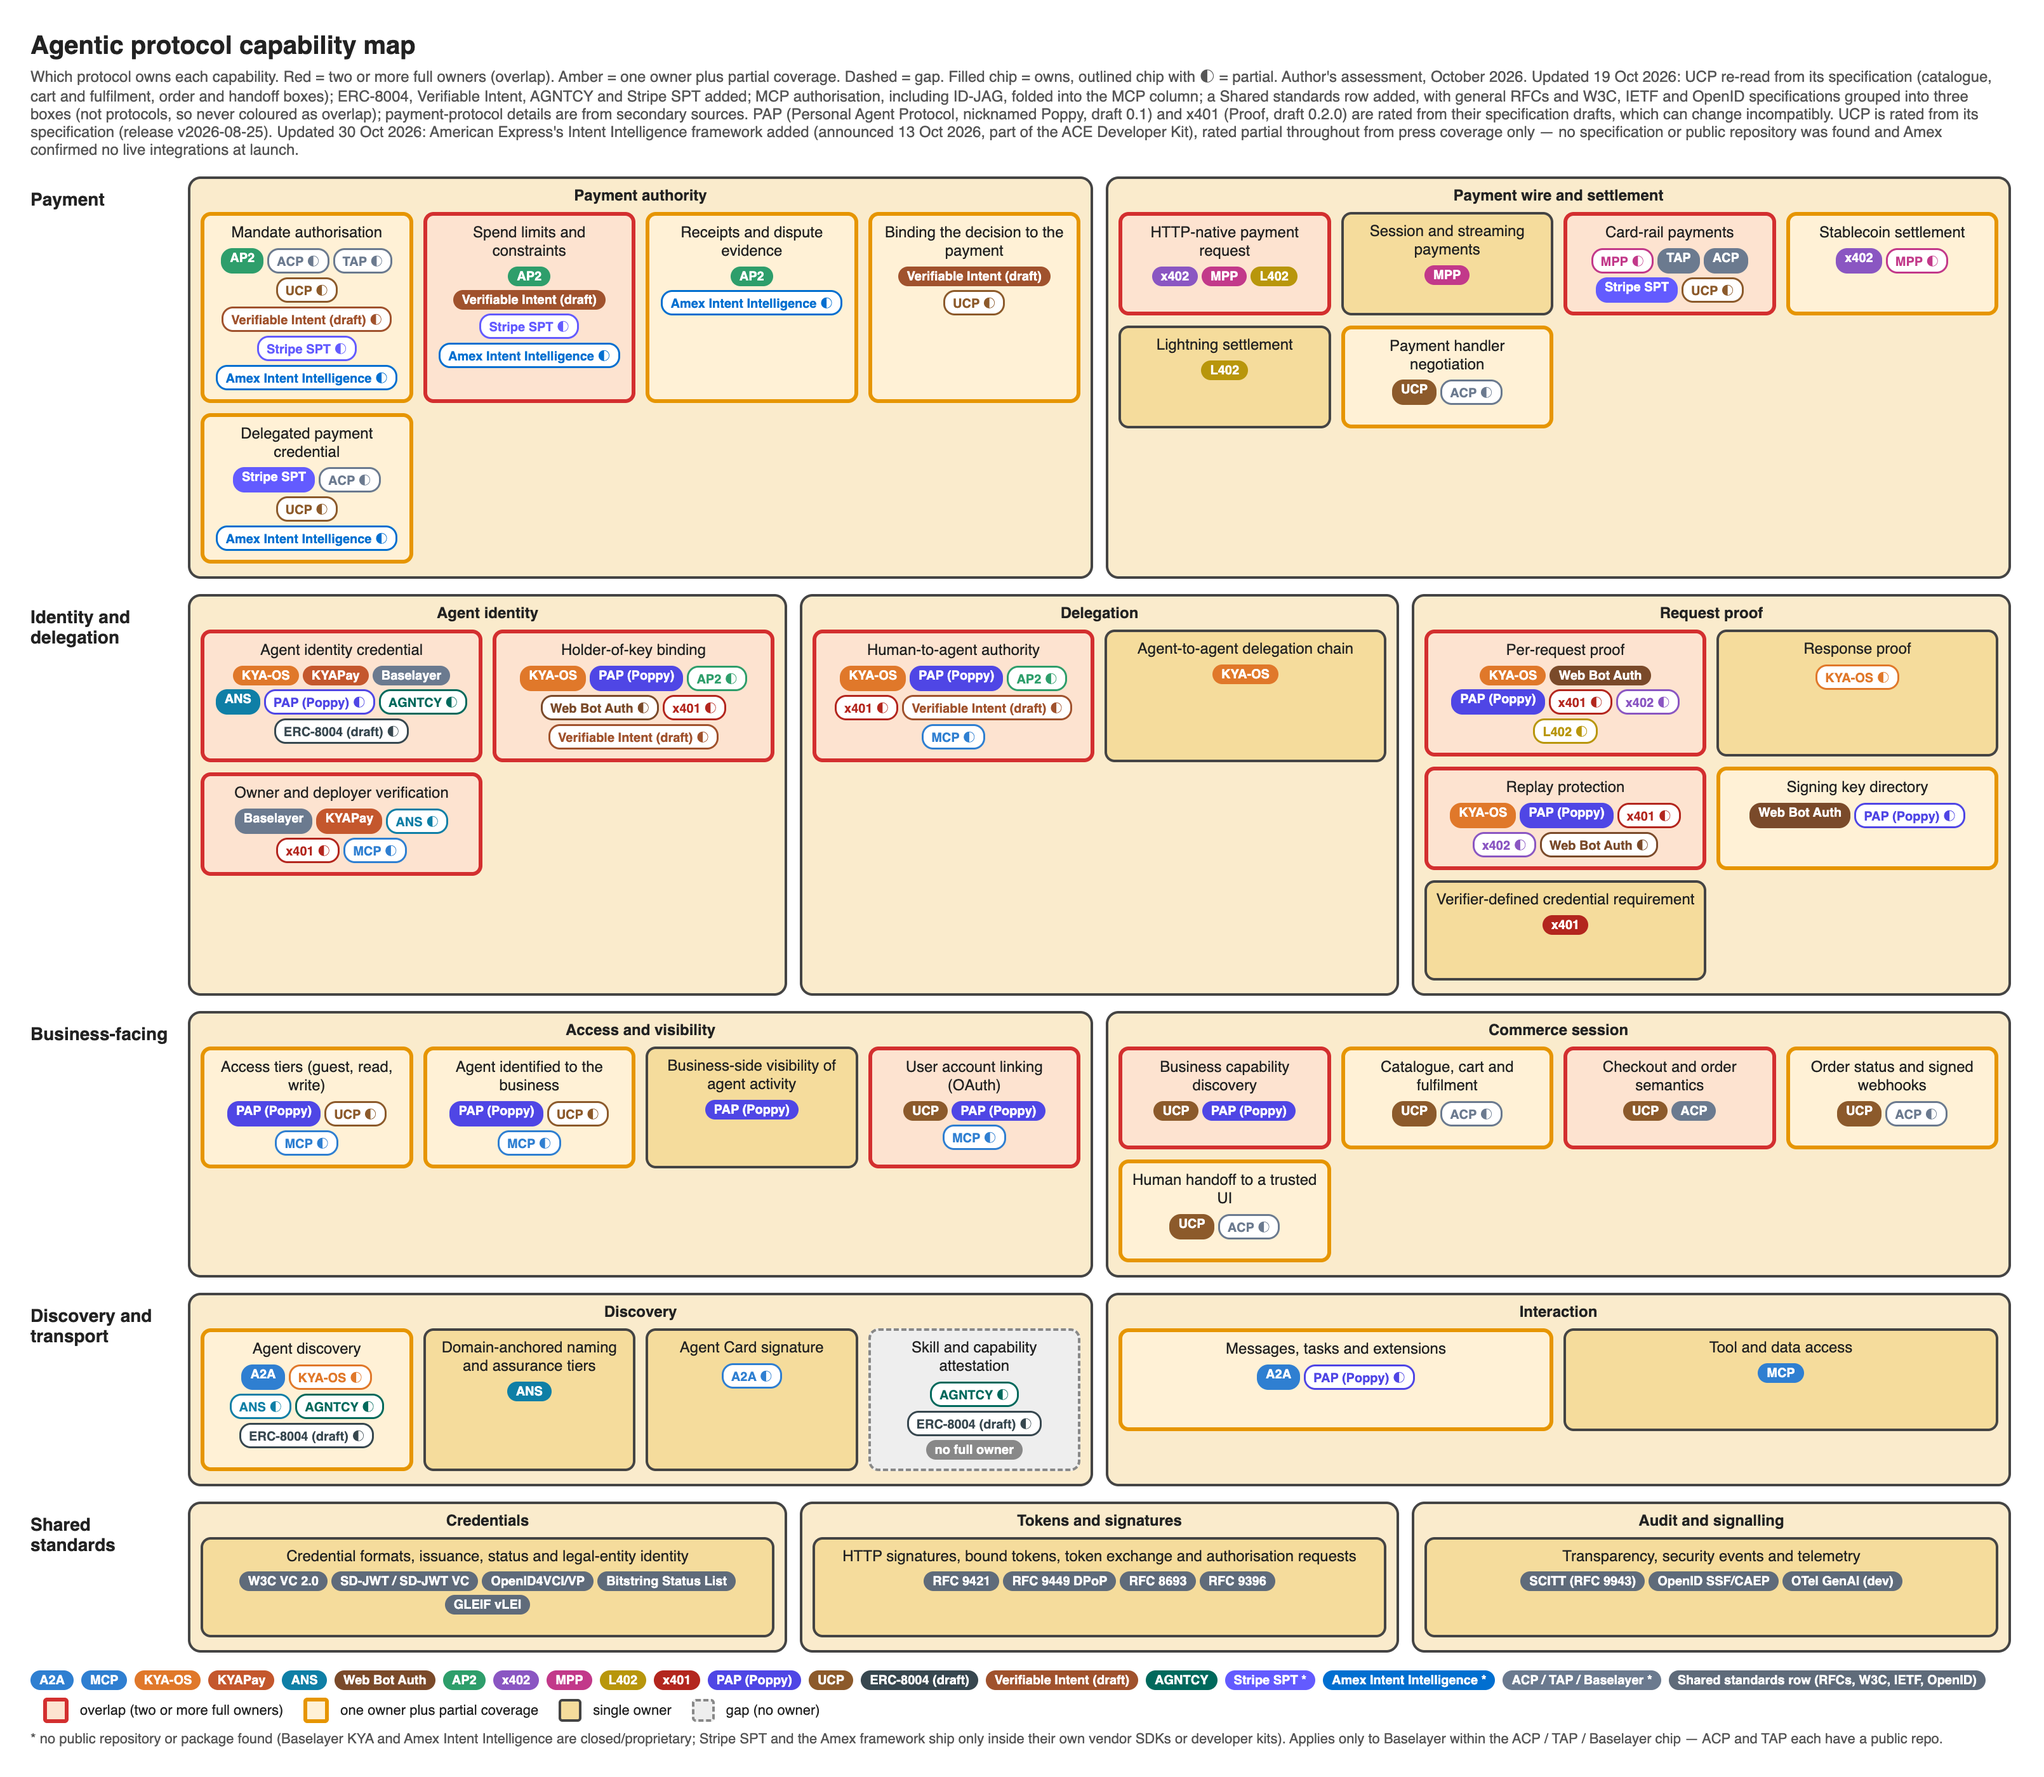
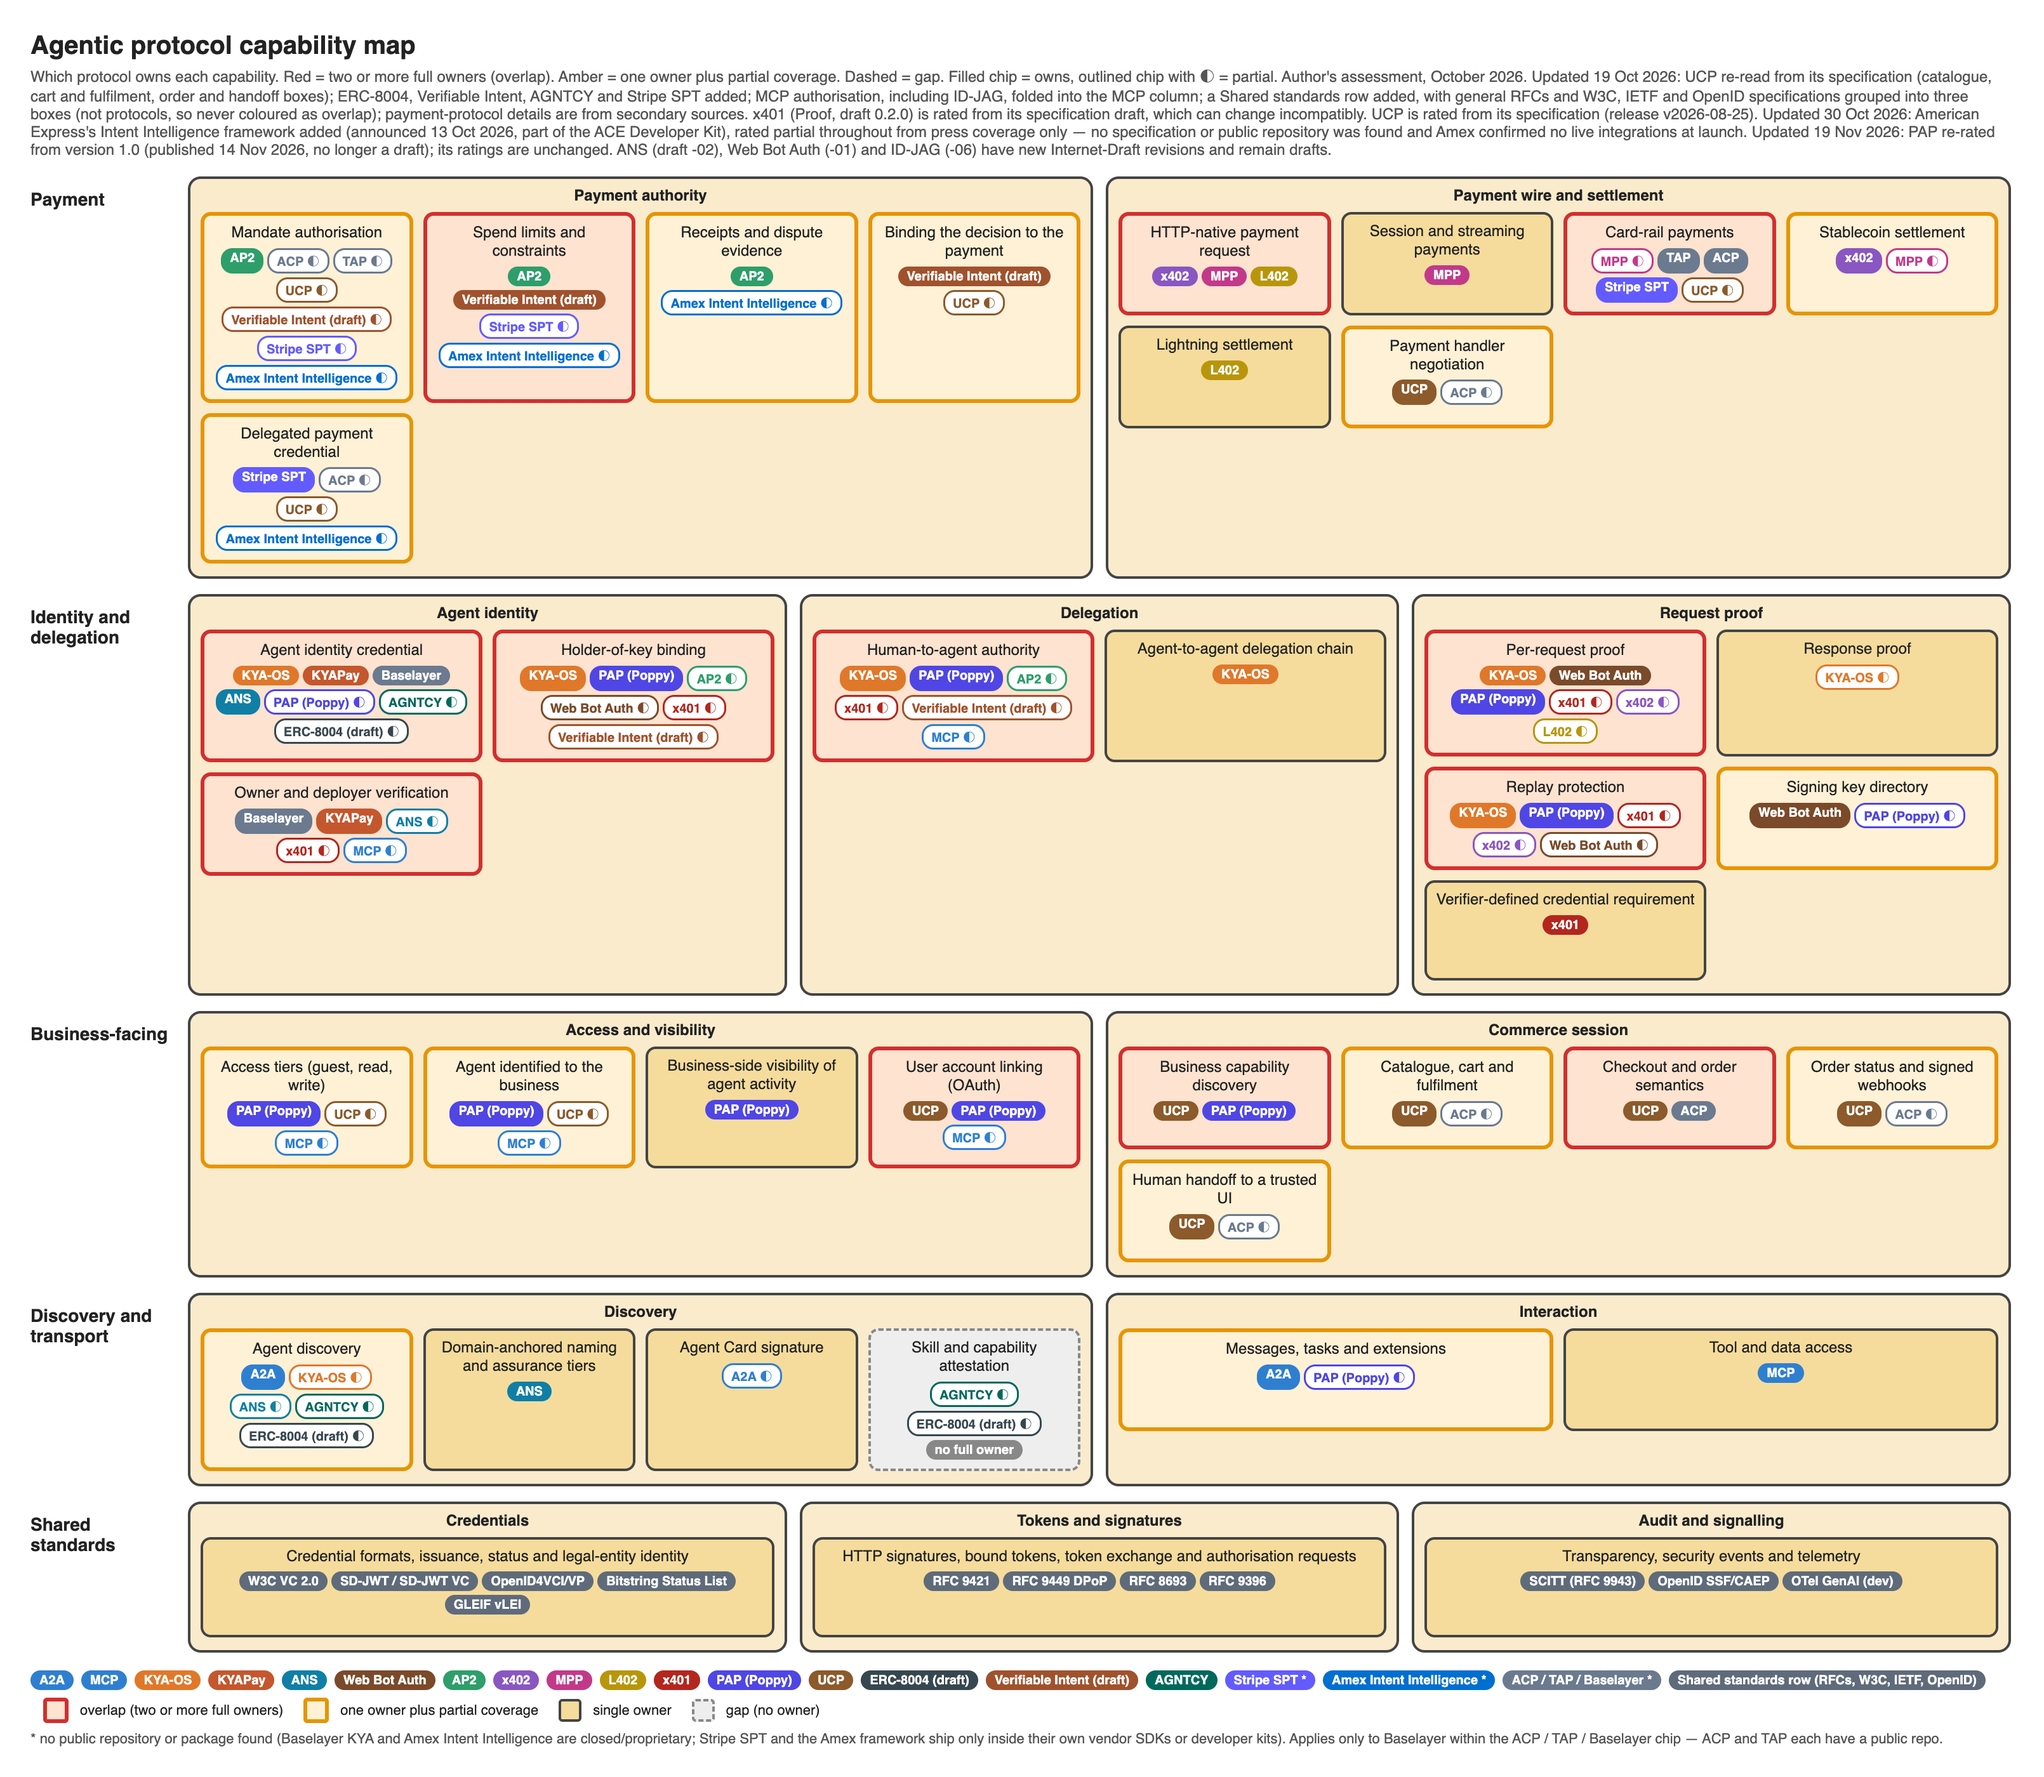
Re-rate PAP from version 1.0 on the capability map

Changed region(s): [[0.0, 0.0621, 0.9627, 0.0932]]

diff --git a/generate.py b/generate.py
@@ -33,8 +33,8 @@ LABEL={'WebBotAuth':'Web Bot Auth','PAP':'PAP (Poppy)','ERC8004':'ERC-8004 (draf
        'OID4VC':'OpenID4VCI/VP','BSL':'Bitstring Status List','vLEI':'GLEIF vLEI','RFC9421':'RFC 9421','DPoP':'RFC 9449 DPoP',
        'RFC8693':'RFC 8693','RAR':'RFC 9396','SCITT':'SCITT (RFC 9943)','SSF':'OpenID SSF/CAEP','OTel':'OTel GenAI (dev)'}
 # Protocols whose ratings are provisional (rated from announcements, not the specification text).
-# None at present. PAP (Poppy) is rated from draft 0.1 (docs/spec, 15 Oct 2026); x401 from draft 0.2.0
-# (github.com/proof/x401, key sections read). Both are drafts and can change incompatibly.
+# None at present. PAP (Poppy) is rated from version 1.0 (published 14 Nov 2026; first rated from draft 0.1,
+# 15 Oct 2026); x401 from draft 0.2.0 (github.com/proof/x401, key sections read), which can change incompatibly.
 # Their chips render dashed, and a box owned only by provisional protocols gets a dotted border.
 PROVISIONAL=set()
 # Protocols with no public repository or package (adoption metrics table in PROTOCOLS.md: Baselayer KYA,
@@ -193,7 +193,7 @@ h1{{font-size:20px;margin:0 0 4px}} .sub{{font-size:12px;color:#555;margin-botto
 .leg-note{{margin-top:6px;font-size:11px;color:#555}}
 </style>
 <h1>{html.escape(TITLE)}</h1>
-<div class="sub">Which protocol owns each capability. Red = two or more full owners (overlap). Amber = one owner plus partial coverage. Dashed = gap. Filled chip = owns, outlined chip with <span class=h>◐</span> = partial. Author's assessment, October 2026. Updated 19 Oct 2026: UCP re-read from its specification (catalogue, cart and fulfilment, order and handoff boxes); ERC-8004, Verifiable Intent, AGNTCY and Stripe SPT added; MCP authorisation, including ID-JAG, folded into the MCP column; a Shared standards row added, with general RFCs and W3C, IETF and OpenID specifications grouped into three boxes (not protocols, so never coloured as overlap); payment-protocol details are from secondary sources. PAP (Personal Agent Protocol, nicknamed Poppy, draft 0.1) and x401 (Proof, draft 0.2.0) are rated from their specification drafts, which can change incompatibly. UCP is rated from its specification (release v2026-08-25). Updated 30 Oct 2026: American Express's Intent Intelligence framework added (announced 13 Oct 2026, part of the ACE Developer Kit), rated partial throughout from press coverage only — no specification or public repository was found and Amex confirmed no live integrations at launch.</div>
+<div class="sub">Which protocol owns each capability. Red = two or more full owners (overlap). Amber = one owner plus partial coverage. Dashed = gap. Filled chip = owns, outlined chip with <span class=h>◐</span> = partial. Author's assessment, October 2026. Updated 19 Oct 2026: UCP re-read from its specification (catalogue, cart and fulfilment, order and handoff boxes); ERC-8004, Verifiable Intent, AGNTCY and Stripe SPT added; MCP authorisation, including ID-JAG, folded into the MCP column; a Shared standards row added, with general RFCs and W3C, IETF and OpenID specifications grouped into three boxes (not protocols, so never coloured as overlap); payment-protocol details are from secondary sources. x401 (Proof, draft 0.2.0) is rated from its specification draft, which can change incompatibly. UCP is rated from its specification (release v2026-08-25). Updated 30 Oct 2026: American Express's Intent Intelligence framework added (announced 13 Oct 2026, part of the ACE Developer Kit), rated partial throughout from press coverage only — no specification or public repository was found and Amex confirmed no live integrations at launch. Updated 19 Nov 2026: PAP re-rated from version 1.0 (published 14 Nov 2026, no longer a draft); its ratings are unchanged. ANS (draft -02), Web Bot Auth (-01) and ID-JAG (-06) have new Internet-Draft revisions and remain drafts.</div>
 {rows}
 <div class="leg">{legend}
 <span class="k" style="background:#fde3d0;border:3px solid #d32f2f"></span>overlap (two or more full owners)
